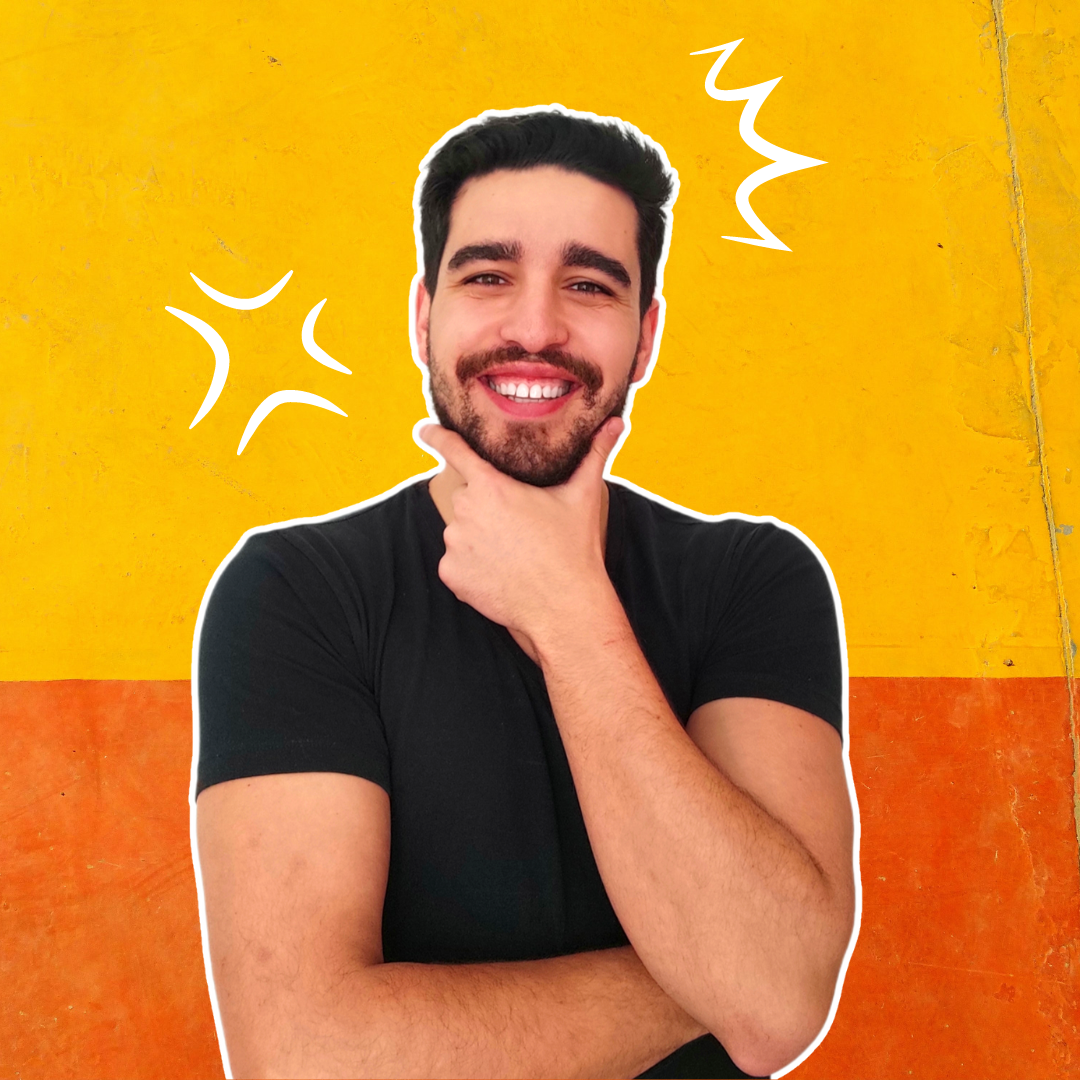
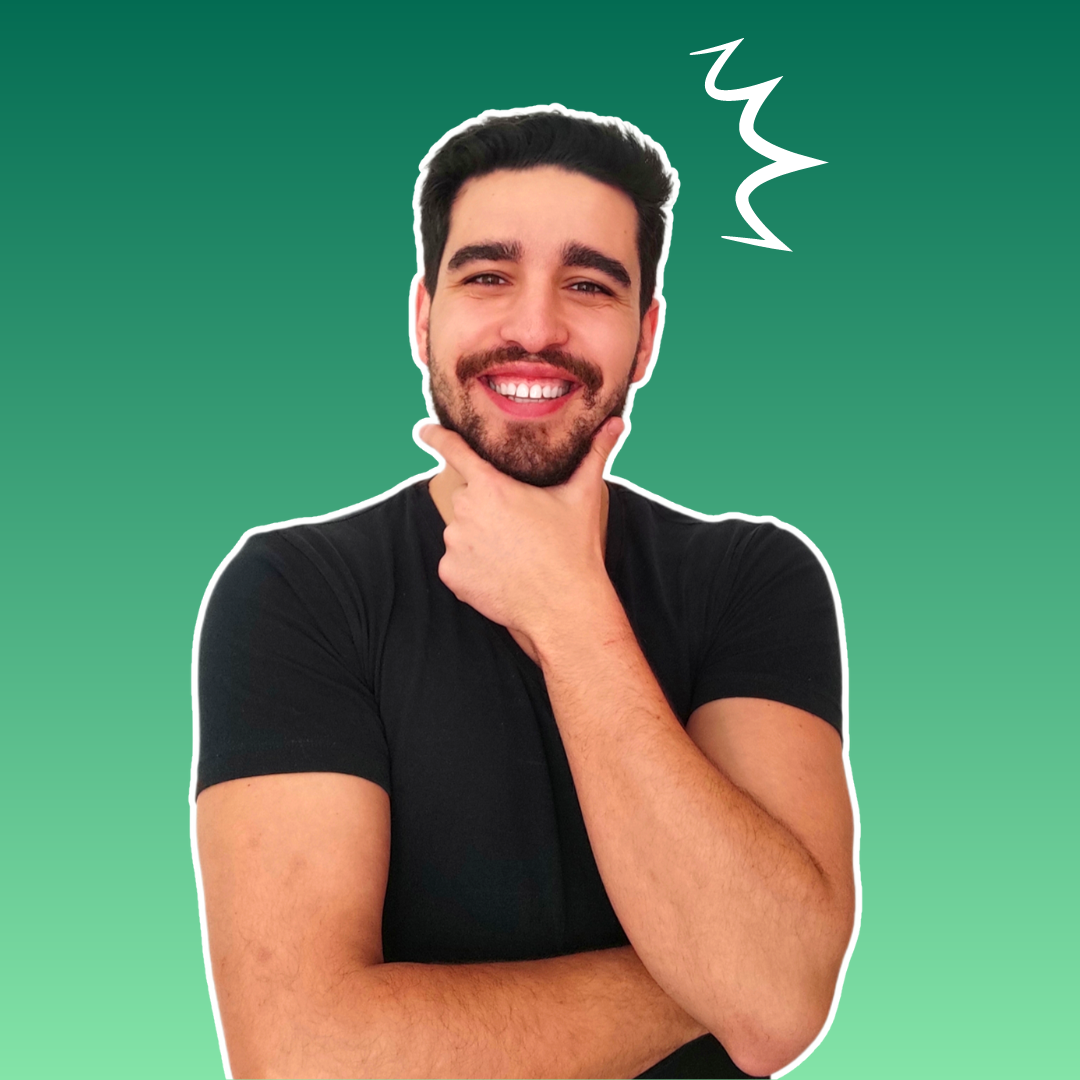
Feat : Adicionando novas cores

diff --git a/style.css b/style.css
@@ -14,8 +14,6 @@ body {
 #cabecalho {
     position: fixed;
     top: 0; 
-    margin-left: auto;
-    margin-right: auto;
 }
 
 .container {
@@ -27,8 +25,18 @@ body {
 
 #titulo {
     font-size: 50px;
-    color: #efb22f;
-    letter-spacing: 10px;
+    color: #036b52;
+    letter-spacing: 6px;
+    cursor: pointer;
+    text-shadow: 2px 2px #036b52;
+}
+
+#titulo:hover {
+    font-size: 80px;
+    color: #2fc18c;
+    letter-spacing: 12px;
+    text-shadow: 5px 5px #036b52;
+    transition: 1s ease;
 }
 
 #minha_foto {
@@ -36,37 +44,52 @@ body {
     border-radius: 12px;
     margin: 10px 10px 10px 10px;
     padding: 5px 5px 5px 5px;
-    border: 1px saddlebrown solid;
+    border: 1px #036b52 solid;
 }
-p {
+
+#minha_foto:hover {
+    width: 400px;
+    transition: 2.5s ease;
+    transform: rotate(360deg);
+    cursor: pointer;
+}
+
+
+.articles p {
     font-size: 20px;
     font-family: 'Times New Roman', Times, serif;
-    font-weight: 500;
+    font-weight: 600;
     line-height: 30px;
-    color: blue;
+    color: #036b52;
     letter-spacing: 1.5px;
+}
+
+.coding {
+    margin: 0 auto;
 }
 
 .Listas {
     display: flex;
+    align-items: center;
+    justify-content: center;
+    gap: 40px;
 }
-
+.lista-titulo {
+    font-size: 35px;
+    font-weight: 700;
+}
 .container-articles {
     display: flex;
-    width: 90%;
+    width: 60%;
     margin: 0 auto;
+
 }
 
 .lado-esquerdo, .lado-direito {
     flex :1;
     text-align: left;
-    margin: 20px 20px;
+    margin: 20px;
 }
-
-.logo-git {
-    width: 30px;
-}
-
 table {
 	width: 30%;
     margin: 0 auto;
@@ -74,5 +97,24 @@ table {
 }
 
 #rodape {
+    font-size: 14px;
+    font-weight: 400;
     text-align: center;
+    color: grey;
+}
+.social-container {
+    display: flex;
+    justify-content: center;
+    gap: 50px;
+}
+
+.social-container img{
+    max-width: 50px;
+}
+
+.social-container img:hover{
+    max-width: 80px;
+    transition: 1.5s ease;
+    transform: rotate(360deg);
+    cursor: pointer;
 }

diff --git a/index.html b/index.html
@@ -9,13 +9,15 @@
 </head>
     <header id="cabecalho">
         <nav>
-            <h1 id="titulo">Portfólio</h1>
+            <h1 id="titulo">Trybe</h1>
         </nav>
     </header>
     <main>
-        <section class="hero">
-            <div class="container">
+    <section class="hero">
+        <div class="container"> 
                 <img src="./Images/foto-1.png" alt="Meu Portfólio" id="minha_foto">
+                <img src="./Images/banner_training.svg" alt="pessoas a codar" class="coding">       
+        </div>
     <div class="Listas">
         <div class="listas-esq">
             <h2 class="lista-titulo">Lições aprendidas</h2>
@@ -47,6 +49,7 @@
                 <li>Aprender a aprender</li>
             </ul>
     </div>
+    </div>
     </section>
     <section class="articles">
         <div class="container-articles">
@@ -63,13 +66,17 @@
   <tr>
     <td>Francisco Costa</td>
     <td>francisco100eg@gmail.com</td>
-    <td>Github</td>
   </tr>
 </table>
 
 <footer id="rodape">
-    <a href="https://github.com/FranciscoCosta" class="github" target="_blank">  <img class="logo-git" src="./Images/iconmonstr-github-1.png" alt="Github"> </a>
-    <p><i>Portfólio criado como Projecto 1</i></p></footer>
+    <div class="social-container">
+        <a href="https://github.com/FranciscoCosta" class="social" target="_blank">  <img class="logo-social" src="./Images/iconmonstr-github-1.png" alt="Github"> </a>
+        <a href="https://github.com/FranciscoCosta" class="social" target="_blank">  <img class="logo-social" src="./Images/link.png" alt="Linkdin"> </a>
+        <a href="https://github.com/FranciscoCosta" class="social" target="_blank">  <img class="logo-social" src="./Images/Ig.png" alt="Instagram"> </a>
+    </div> 
+    <p class="rodape-txt"><i>Todos os direitos reservados a Francisco Costa.</i></p></footer>
+
 <body>
     
 </body>
